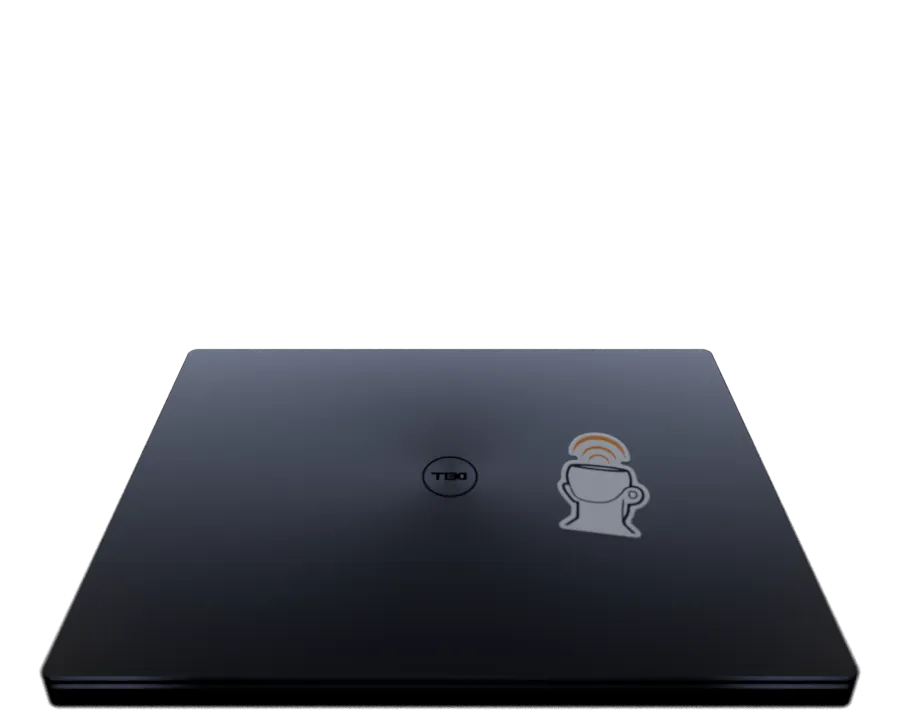
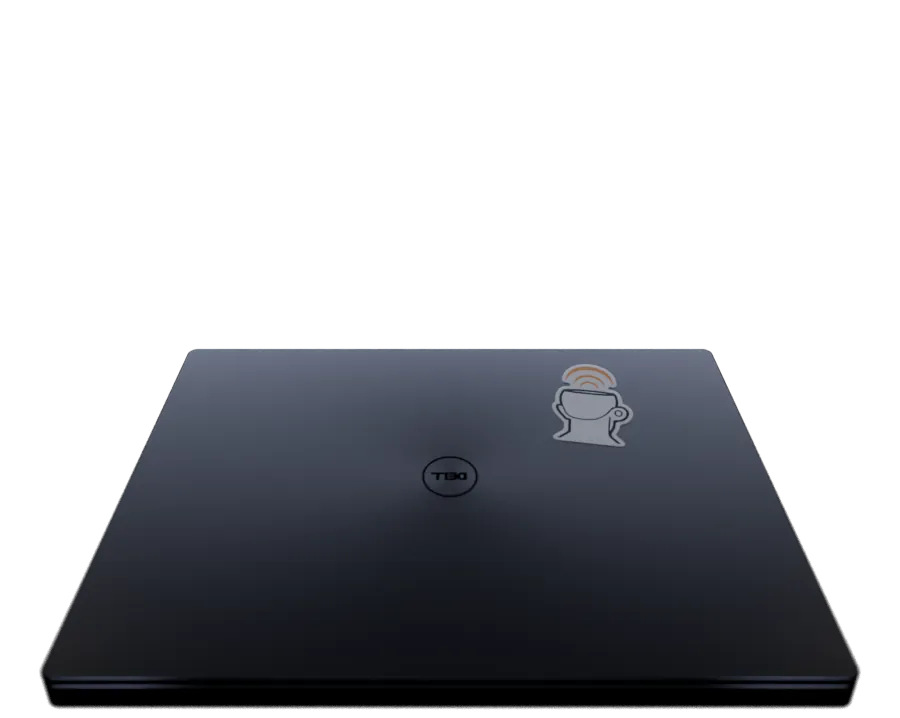
Cinema seat: closing the laptop moves the view onto the film; captions show
Closed, the recording fills the window under the way back, with the lid's far edge below: the sticker
(re-rendered near the hinge) and the Play / Open buttons on it; the recording's own bar wakes on the mouse
and the poster names the talk. Opening pulls back to the usual view. The tube moves by transform only, so
it keeps step with the room.

Captions were on but drawn in the strip of YouTube's frame the tube crops away: with CC on the frame is
uncropped, a size up on the small picture, and they come on when the player is ready if asked for before.

Changed region(s): [[0.5911, 0.4903, 0.7467, 0.766]]

diff --git a/site/cinema/cinema.js b/site/cinema/cinema.js
@@ -168,7 +168,7 @@ function mount(panel, key, overlayName) {
   const [mw, mh] = shots[key].size[overlayName];
   // laptops: a fixed canvas, like a real display; phones: laid out 1:1 for the width the totem takes on this screen
   let w = canvasFor(key);
-  if (seat && key === seat.key) w = Math.round(seat.layout.screen.w);   // the seat on laptops: laid out 1:1 for the screen's size
+  if (seat && key === seat.key) w = seat.layout.panelW;   // laid out for the screen as seen with the lid open: closed, it only grows   // the seat on laptops: laid out 1:1 for the screen's size
   else if (key.includes("phone")) {
     const { iw, ih, s } = fit(key);
     const [tl, tr] = ordered(shots[key].overlay[overlayName]);
@@ -498,7 +498,8 @@ function talkScreen(t, tall, onFloor, doorRoom = null) {
 // it's worth your time beside it. Everything else (the summary, what to try, the chapters to jump through the talk) is on
 // a laptop on your lap: a separate picture laid over the room, like a first-person game draws the hands, so it can be
 // placed for each window size without ever covering the recording. Open, it rises into the bottom of the view, the room
-// tilted up a little to make room; closed, its lid (and the sticker on it) lies low and the screen is all yours; zoomed,
+// tilted up a little to make room; closed, you look up: the recording fills the window, the lid's far edge (sticker
+// peeking) and its Play / Open buttons at the foot, and opening it pulls the view back down; zoomed,
 // it's lifted until its screen fills the window, the room dims behind, and the recording moves onto it.
 // Keys: K play/pause, [ and ] previous/next chapter, F full screen, L open/close the laptop, Esc back out.
 // The laptop's pictures and where things are in them, in art px (scripts/blender/build_laptop.py writes laptop.json, which
@@ -509,7 +510,7 @@ const LAP = shots.laptop ? (() => {
   const L = shots.laptop, [tl, tr, bl] = L.screen, hingeCut = (f) => Math.min(L.h, L.open_cut + (f - 0.32) * (bl[1] - tl[1]));
   return { w: L.w, h: L.h, screen: [tl[0], tl[1], tr[0], bl[1]],
     open: { src: "media/laptop-open.webp", top: L.open_top, cut: L.open_cut, cutShort: hingeCut(0.1) },
-    closed: { src: "media/laptop-closed.webp", top: L.closed_top, bottom: L.closed_cut || L.closed_bottom, box: L.closed_box },
+    closed: { src: "media/laptop-closed.webp", top: L.closed_top, bottom: L.closed_cut || L.closed_bottom, box: L.closed_box, sticker: L.sticker_box },
     frames: Array.from({ length: L.frames || 0 }, (_, i) => `media/laptop-anim-${String(i).padStart(2, "0")}.webp`) };
 })() : {   // a drawn stand-in until the render is in
   w: 1600, h: 1060, screen: [176, 26, 1424, 806],
@@ -564,7 +565,24 @@ function seatLayout(st) {
   else lapBox = { x: W / 2 - (LAP.screen[0] + ow / 2) * k, y: H - c.bottom * k, w: LAP.w * k, h: LAP.h * k, k };
   // the recording keeps clear of the open lid, so its controls are never under it
   const cover = Math.max(0, Math.ceil(openTop + sh - lidTop));
-  return { frame, screen: { x: left, y: top, w: sw, h: sh }, lap: lapBox, cover, W, H };
+  const out = { frame, screen: { x: left, y: top, w: sw, h: sh }, panelW: Math.round(sw), lap: lapBox, cover, W, H };
+  if (!st.open && !st.zoom && st.t.videoId && EMBED) {
+    // Closed: you look up from your lap at the film. The view moves in until the recording fills the window, under the
+    // way back to the programme; at the foot, the far edge of the lid (sticker and all) and its Play / Open buttons.
+    // how much of the closed lid stays in view: its far edge down to just past the sticker (the buttons sit on it, beside)
+    const stk = c.sticker || [0, 0, 0, c.top + 230];
+    const lidShow = Math.round(Math.min(H * 0.2, Math.max(56, (stk[3] - c.top) * k + 12)));
+    const vTop = 56, vBottom = H - lidShow - 12;               // clear of "← Programme" above and the lid below
+    const vh = Math.min(vBottom - vTop, (W - 24) * 9 / 16), vw = vh * 16 / 9;
+    const video = { x: (W - vw) / 2, y: vTop + (vBottom - vTop - vh) / 2, w: vw, h: vh };
+    const zs = vh / Math.min(sy1 - sy0, (sx1 - sx0) * 9 / 16);   // the screen's scale: the picture at its full height
+    const zw = (sx1 - sx0) * zs, zh = (sy1 - sy0) * zs, zl = W / 2 - zw / 2, zt = video.y - (zh - vh) / 2;
+    Object.assign(out, { frame: { iw, ih, s: zs, ox: zl - sx0 * zs, oy: zt - sy0 * zs }, screen: { x: zl, y: zt, w: zw, h: zh }, video, cover: 0,
+      lap: { ...lapBox, y: H - lidShow - c.top * k },
+      // the Play / Open buttons on the lid, to the left of the sticker, halfway down the strip in view (css px in the laptop's box)
+      lidBar: { right: (c.sticker ? stk[0] : LAP.w * 0.6) * k - 18, mid: c.top * k + lidShow / 2 } });
+  }
+  return out;
 }
 
 // the room (still, cut-out) moved from where object-fit puts it to the seat's framing (from: start at the walk's framing)
@@ -660,7 +678,8 @@ function posterOn(t) {
   img.onerror = () => { img.onerror = null; img.src = `https://i.ytimg.com/vi/${t.videoId}/hqdefault.jpg`; };
   tube.textContent = "";
   tube.append(el("button", { class: "poster", type: "button", "aria-label": `Play the recording of ${t.title}`, "aria-keyshortcuts": "K", onclick: () => jumpTo(0) },
-    img, el("span", { class: "play" }, el("i", { "aria-hidden": "true" }), "Play the talk", t.duration ? el("small", { text: `${t.duration} min` }) : null)));
+    img, el("span", { class: "poster-title", "aria-hidden": "true" }, el("b", { text: t.title }), el("span", { text: speakers(t, true) })),
+    el("span", { class: "play" }, el("i", { "aria-hidden": "true" }), "Play the talk", t.duration ? el("small", { text: `${t.duration} min` }) : null)));
   tube.hidden = false;
 }
 // the recording full screen (the browser's own): the picture alone, with a slim bar of our controls that shows when
@@ -689,21 +708,29 @@ function tubeControls() {
     el("button", { class: "icon cc", type: "button", "aria-keyshortcuts": "C", "aria-pressed": "false", "aria-label": "Captions", onclick: () => toggleCaptions() }, "CC"),
     el("button", { class: "icon mute", type: "button", "aria-keyshortcuts": "M", "aria-label": "Mute", onclick: () => toggleMute() }),
     el("button", { class: "icon fs", type: "button", "aria-keyshortcuts": "F", "aria-label": "Leave full screen", onclick: () => videoFullscreen() }));
-  bar.querySelector(".fs").innerHTML = FS_EXIT_ICON;
-  bar.querySelector(".fs").title = "Leave full screen  F or Esc";
+  fsButton(bar);
   const corner = el("button", { class: "tube-fs", type: "button", "aria-keyshortcuts": "F", "aria-label": "Video full screen", title: "Video full screen  F", onclick: () => videoFullscreen() });
   corner.innerHTML = FS_ICON;
   return [corner, bar];
 }
+// the bar's last button: into full screen from the big view, out of it in full screen
+function fsButton(bar = tube.querySelector(".tube-bar")) {
+  const b = bar && bar.querySelector(".fs"), on = document.fullscreenElement === tube;
+  if (!b) return;
+  b.innerHTML = on ? FS_EXIT_ICON : FS_ICON;
+  b.title = on ? "Leave full screen  F or Esc" : "Video full screen  F";
+  b.setAttribute("aria-label", on ? "Leave full screen" : "Video full screen");
+}
 let barTimer = 0;
 tube.addEventListener("mousemove", () => {
-  if (document.fullscreenElement !== tube) return;
+  if (document.fullscreenElement !== tube && !tube.classList.contains("is-big")) return;
   tube.classList.add("is-awake");
   clearTimeout(barTimer);
   barTimer = setTimeout(() => tube.classList.remove("is-awake"), 2500);
 });
 document.addEventListener("fullscreenchange", () => {
   tube.classList.toggle("is-full", document.fullscreenElement === tube);
+  fsButton();
   tube.classList.add("is-awake");
   clearTimeout(barTimer);
   barTimer = setTimeout(() => tube.classList.remove("is-awake"), 2500);
@@ -738,6 +765,7 @@ function jumpTo(sec) {
           e.target.playVideo();
           seat.ready = true;
           clearTimeout(seat.readyTimer);
+          if (seat.cc) applyCaptions();
           tick();
         },
         onStateChange: (e) => { theatreFor(e.data); tick(); },
@@ -761,12 +789,33 @@ function toggleMute() {
   if (p.isMuted()) p.unMute(); else p.mute();
   setTimeout(tick, 100);
 }
+// Captions: YouTube draws them at the foot of its frame, which the tube crops away (see .tube's --crop in the CSS), so
+// with captions on the frame is uncropped and they sit on the picture's foot. The English track, else whatever the
+// recording has (auto-generated tracks too). Asked for before the player exists, they come on when it's ready.
 function toggleCaptions() {
-  const p = seat && seat.player;
-  if (!p || !p.loadModule) return;
+  if (!seat) return;
   seat.cc = !seat.cc;
-  if (seat.cc) { p.loadModule("captions"); p.setOption("captions", "track", { languageCode: "en" }); } else p.unloadModule("captions");
+  applyCaptions();
   tick();
+}
+function applyCaptions() {
+  const p = seat && seat.player;
+  tube.classList.toggle("is-cc", !!(seat && seat.cc));
+  if (!p || !p.loadModule || !seat.ready) return;
+  if (!seat.cc) { p.setOption("captions", "track", {}); p.unloadModule("captions"); return; }
+  p.loadModule("captions");
+  p.setOption("captions", "track", { languageCode: "en" });
+  captionSize();
+  setTimeout(() => {             // no English track: the recording's first
+    if (!seat || !seat.cc || seat.player !== p) return;
+    const now = p.getOption("captions", "track"), list = p.getOption("captions", "tracklist") || [];
+    if ((!now || !now.languageCode) && list.length) p.setOption("captions", "track", list[0]);
+  }, 1500);
+}
+// YouTube sizes captions by its frame; on the cinema screen (seen from the seat) that's small: a step up there
+function captionSize() {
+  const p = seat && seat.player;
+  if (seat && seat.cc && p && p.setOption && seat.ready) p.setOption("captions", "fontSize", tube.clientWidth < 1100 ? 2 : 1);
 }
 // Theatre: while the talk plays, the title column drifts off and the picture grows to the screen's full height, centred;
 // pause (for a moment) or let it finish and the column comes back
@@ -780,23 +829,47 @@ function theatreFor(state) {
 function setTheatre(on) {
   if (!seat || seat.theatre === on) return;
   seat.theatre = on;
-  if (seat.cine) seat.cine.classList.toggle("is-theatre", on);
+  if (seat.cine) seat.cine.classList.toggle("is-theatre", inTheatre());
   if (!seat.zoom) placeTube(reduceMotion ? 0 : 750);
 }
+// the lid closed with the view on the film: the picture stays big, playing or not
+const inTheatre = () => !!seat && (seat.theatre || !!seat.layout.video);
+// where things on the cinema screen end up once the view has moved (read from the layout: mid-move, the DOM is not there yet)
 function theatreRect() {
-  const fr = seat.cine.getBoundingClientRect(), padX = fr.width * 0.015, padT = 8, padB = seat.layout.cover + 8;
+  const st = stage.getBoundingClientRect(), L = seat.layout, v = L.video;
+  if (v) return { left: st.left + v.x, top: st.top + v.y, width: v.w, height: v.h };
+  const fr = { left: st.left + L.screen.x, top: st.top + L.screen.y, width: L.screen.w, height: L.screen.h };
+  const padX = fr.width * 0.015, padT = 8, padB = L.cover + 8;
   const aw = fr.width - 2 * padX, ah = fr.height - padT - padB;
   const h = Math.min(ah, aw * 9 / 16), w = h * 16 / 9;
   return { left: fr.left + (fr.width - w) / 2, top: fr.top + padT + (ah - h) / 2, width: w, height: h };
+}
+function onScreen(e) {
+  const pr = seat.cine.getBoundingClientRect(), r = e.getBoundingClientRect(), st = stage.getBoundingClientRect(), L = seat.layout.screen;
+  const kx = L.w / pr.width, ky = L.h / pr.height;
+  return { left: st.left + L.x + (r.left - pr.left) * kx, top: st.top + L.y + (r.top - pr.top) * ky, width: r.width * kx, height: r.height * ky };
 }
 // the tube sits over whichever slot is showing: the cinema screen's, or the laptop's when zoomed
 function placeTube(ms = 0) {
   if (!seat || tube.hidden) return;
   const host = seat.zoom ? seat.notes : seat.cine, slot = host && host.querySelector(".slot");
   if (!slot) { tube.classList.add("is-away"); return; }
-  const r = !seat.zoom && seat.theatre && seat.cine ? theatreRect() : slot.getBoundingClientRect(), st = stage.getBoundingClientRect();
-  tube.style.transition = ms ? `transform ${ms}ms ${EASE}, width ${ms}ms ${EASE}, height ${ms}ms ${EASE}, opacity .25s ease` : "opacity .25s ease";
-  Object.assign(tube.style, { width: `${Math.round(r.width)}px`, height: `${Math.round(r.height)}px`, transform: `translate(${Math.round(r.left - st.left)}px, ${Math.round(r.top - st.top)}px)` });
+  const r = seat.zoom ? slot.getBoundingClientRect() : inTheatre() ? theatreRect() : onScreen(slot), st = stage.getBoundingClientRect();
+  const was = tube.getBoundingClientRect(), w = Math.round(r.width), h = Math.round(r.height);
+  const to = `translate(${Math.round(r.left - st.left)}px, ${Math.round(r.top - st.top)}px)`;
+  // moving: the new size at once, scaled from the old box back to it (a transform alone runs in step with the room's;
+  // animating width and height relaid the player every frame and fell behind)
+  const flip = ms && was.width > 1 && !tube.classList.contains("is-away") && !tube.classList.contains("is-full");
+  tube.style.transition = "opacity .25s ease";
+  tube.style.transformOrigin = "0 0";
+  Object.assign(tube.style, { width: `${w}px`, height: `${h}px`,
+    transform: flip ? `translate(${was.left - st.left}px, ${was.top - st.top}px) scale(${was.width / w}, ${was.height / h})` : to });
+  if (flip) {
+    tube.getBoundingClientRect();
+    tube.style.transition = `transform ${ms}ms ${EASE}, opacity .25s ease`;
+    tube.style.transform = to;
+  }
+  tube.classList.toggle("is-big", !seat.zoom && !!seat.layout.video);
   tube.classList.toggle("is-on-laptop", seat.zoom);
   tube.classList.remove("is-away");
 }
@@ -1146,6 +1219,10 @@ function tick() {
 function syncControls() {
   const { open, zoom } = seat;
   lidBar.hidden = lidHit.hidden = open;
+  const lb = seat.layout && seat.layout.lidBar;
+  lidBar.classList.toggle("is-on-lid", !!lb);
+  if (lb) Object.assign(lidBar.style, { left: `${lb.right}px`, top: `${lb.mid}px` });
+  else placeLidBar();
   lidPlay.hidden = !seat.t.videoId || !EMBED;
   seatbar.hidden = zoom;                                    // full screen: the laptop's own header has the way out
   const n = seat.notesPanel;
@@ -1159,7 +1236,7 @@ function syncControls() {
 function mountCine() {
   mount(seat.cinePanel || (seat.cinePanel = cineScreen(seat.t)), seat.key, "screen");
   seat.cine = face.el;
-  seat.cine.classList.toggle("is-theatre", !!seat.theatre);
+  seat.cine.classList.toggle("is-theatre", inTheatre());
   seat.cine.style.setProperty("--cover", `${seat.layout.cover}px`);
   fitCine(seat.cine);
 }
@@ -1205,12 +1282,16 @@ async function setLaptop(change, ms = MOVE) {
   if (next.open === seat.open && next.zoom === seat.zoom) return;
   moving = true;
   const opening = next.open !== seat.open;
+  if (opening && ms) ms = Math.round(ms * 1.3);           // the view travels further: up to the film and back
   if (seat.notes) seat.notes.classList.add("is-off");     // the screen goes dark first
+  if (!next.open && seat.cine && seat.t.videoId && EMBED) seat.cine.classList.add("is-theatre");   // and the column leaves the film
+  lap.classList.add("is-moving");
   if (next.zoom !== seat.zoom) tube.classList.add("is-away");
   await new Promise((r) => setTimeout(r, ms ? 140 : 0));
   Object.assign(seat, { open: next.open, zoom: next.zoom });
   seat.layout = seatLayout(seat);
   stage.classList.toggle("is-reading", seat.zoom);
+  if (seat.cine) seat.cine.classList.toggle("is-theatre", inTheatre());
   const np = seat.notesPanel, pressed = np && np.querySelector('.tabs [aria-pressed="true"]');
   if (seat.zoom && pressed && pressed.dataset.tab === "overview") { seat.tabBeforeZoom = "overview"; np.fill("summary"); }
   else if (!seat.zoom && seat.tabBeforeZoom) { if (pressed && pressed.dataset.tab === "summary") np.fill(seat.tabBeforeZoom); seat.tabBeforeZoom = null; }
@@ -1225,6 +1306,8 @@ async function setLaptop(change, ms = MOVE) {
   if (face) face.el.style.transition = "";
   mountNotes();
   placeTube();
+  captionSize();
+  lap.classList.remove("is-moving");
   moving = false;
   // focus follows: into the laptop when it opens or zooms, onto the lid when it closes
   if (!seat.open) lapLid.focus({ preventScroll: true });
@@ -1237,9 +1320,13 @@ lidHit.addEventListener("click", () => setLaptop({ open: true }));
 {
   const [x0, y0, x1, yb] = LAP.closed.box, y1 = Math.min(yb, LAP.closed.bottom), pc = (v, of) => `${v / of * 100}%`;
   Object.assign(lidHit.style, { left: pc(x0, LAP.closed.w || LAP.w), top: pc(y0, LAP.closed.h || LAP.h), width: pc(x1 - x0, LAP.closed.w || LAP.w), height: pc(y1 - y0, LAP.closed.h || LAP.h) });
-  // just above the lid's far edge, centred: never on the logo or the sticker
+}
+// just above the lid's far edge, centred: never on the logo or the sticker
+function placeLidBar() {
+  const [x0, y0, x1] = LAP.closed.box, pc = (v, of) => `${v / of * 100}%`;
   Object.assign(lidBar.style, { left: pc((x0 + x1) / 2, LAP.closed.w || LAP.w), top: pc(y0 - (LAP.closed.h || LAP.h) * 0.035, LAP.closed.h || LAP.h) });
 }
+placeLidBar();
 lidPlay.addEventListener("click", () => playPause());
 $("toProg").addEventListener("click", () => goHall());
 addEventListener("keydown", (e) => {
@@ -1282,6 +1369,7 @@ async function sitDown(t, n, key, withWalk) {
   room = n; current = t;
   seat = { t, n, key, open: true, zoom: false, layout: null, cine: null, notes: null, notesPanel: null, cinePanel: null, player: null, timer: 0,
     chapters: chaptersOf(t), lastChapter: null, starting: false, startAt: 0 };
+  tube.classList.remove("is-cc");
   seat.layout = seatLayout(seat);
   preloadLid();
   lapArt.src = LAP.open.src;

diff --git a/site/cinema/cinema.css b/site/cinema/cinema.css
@@ -559,6 +559,7 @@ button, input, a { font: inherit; color: inherit; }
    so the 16:9 picture letterboxes inside it and those overlays land in the bars, clipped away */
 .tube { overflow: hidden; --crop: max(64px, 14%); }
 .tube .yt, .tube iframe { top: calc(-1 * var(--crop)); height: calc(100% + 2 * var(--crop)); }
+.tube.is-cc { --crop: 0px; }   /* captions on: they sit at the frame's foot, so nothing is cropped */
 .notes.is-zoomed .notes-watch .slot { width: 100%; max-height: none; aspect-ratio: 16 / 9; align-self: stretch; }
 /* round 4 */
 .notes.is-zoomed .now { height: auto; }
@@ -798,3 +799,16 @@ html, body { overscroll-behavior: none; }
 .notes button.pull-at:hover { background: rgba(246, 146, 30, .14); text-decoration: none; }
 .notes span.pull-at { border: 0; padding: 0; }
 .notes.is-tiny .now-time { display: none; }        /* the smallest laptop: the scrubber shows where you are; every button stays */
+
+/* the lid closed, the view on the film: the recording's own bar (as in full screen) wakes on the mouse; the poster names
+   the talk; the lid's buttons sit on the lid, beside the sticker */
+.tube.is-big .tube-bar { display: flex; opacity: 0; transition: opacity .3s ease; }
+.tube.is-big.is-awake .tube-bar, .tube.is-big .tube-bar:focus-within, .tube.is-big:has(.tube-paused:not([hidden])) .tube-bar { opacity: 1; }
+.tube.is-big .tube-fs { display: none; }
+.tube .poster-title { display: none; }
+.tube.is-big .poster-title { position: absolute; left: 0; right: 0; top: 0; display: flex; flex-direction: column; gap: 6px; padding: 26px 32px 60px; text-align: left;
+  background: linear-gradient(rgba(0, 0, 0, .9), rgba(0, 0, 0, .6) 60%, transparent); color: #e8ebf4; font-size: 16px; text-shadow: 0 1px 3px #000; }
+.tube.is-big .poster-title b { font-size: clamp(22px, 2.4vw, 34px); line-height: 1.15; color: #fff; }
+.lid-bar.is-on-lid { translate: -100% -50%; }
+.lap.is-moving .lap-hint, .lap.is-moving .lid-bar { visibility: hidden; }
+.tube.is-big .tube-bar .now-text { flex: 0 1 auto; max-width: 26%; }   /* the scrubber takes the room, not an empty gap */

diff --git a/scripts/blender/build_laptop.py b/scripts/blender/build_laptop.py
@@ -375,7 +375,7 @@ def sticker():
     me.materials.append(m)
     ob = bpy.data.objects.new("sticker", me)
     ob.parent = pivot
-    ob.location = (0.082, front_y + 0.112, top_z + 0.00015)         # in the lid's back half: in view above the bottom edge
+    ob.location = (0.086, front_y + 0.176, top_z + 0.00015)         # near the hinge: in view when you look up at the film too
     ob.rotation_euler = (0, 0, math.radians(-9))                   # up = +y when closed: away from you, so you read it
     scene.collection.objects.link(ob)
 
@@ -511,6 +511,7 @@ info["closed_bottom"] = round(max(px(Vector((x, -D, 0.0)))[1] for x in (-W / 2, 
 _st = bpy.data.objects["sticker"]
 _sw, _sh = _st.dimensions.x, _st.dimensions.y
 _cs = [px(_st.matrix_world @ Vector((x * _sw / 2 / _st.scale.x, y * _sh / 2 / _st.scale.y, 0))) for x in (-1, 1) for y in (-1, 1)]
+info["sticker_box"] = [round(min(p[0] for p in _cs), 1), round(min(p[1] for p in _cs), 1), round(max(p[0] for p in _cs), 1), round(max(p[1] for p in _cs), 1)]
 info["closed_cut"] = round(min(info["closed_bottom"], max(p[1] for p in _cs) + 0.06 * (info["closed_bottom"] - info["closed_top"])), 1)
 print("laptop frame", WPX, "x", HPX, json.dumps(info))
 

diff --git a/tools/ux/RUBRIC-seat.md b/tools/ux/RUBRIC-seat.md
@@ -34,6 +34,8 @@ review is about **the seat, on laptops and desktops**.
  R9 While the talk plays, the text beside the video is gone (animated away) and the video takes as much of the movie
     screen as it can; reading on the laptop, its tabs and headers get out of the way (away on scroll down, back on
     scroll up); the UI disappears when not in use; the summary is formatted to be legible and pleasant.
+ R10 Closing the laptop moves the view in on the movie screen: the recording fills the window, with just a bit of the
+    laptop and its "Open the laptop" button below; opening it pulls back to the usual view. Captions (CC) show.
 
 ## Standing notes for reviewers
 - The laptop is a **placeholder drawing** for now. It becomes a photoreal render of a Dell Precision 5570 (silver lid,
@@ -51,7 +53,7 @@ review is about **the seat, on laptops and desktops**.
   2b-summary-reading       the Summary tab, scrolled down a little: the laptop's header, tabs and bar fold away
   3-jumped                 after clicking a chapter: the recording plays (theatre: the column beside it drifts off,
                            the picture takes the screen's full height)
-  4-closed                 the laptop closed
+  4-closed                 the laptop closed: the view moved in on the film (tools/ux/closed.mjs shoots the move)
   5-fullscreen             the laptop zoomed to fill the window
   6-fullscreen-jumped      a chapter clicked while full screen
   7-back-from-fullscreen   Esc pressed
@@ -60,6 +62,7 @@ review is about **the seat, on laptops and desktops**.
   11-video-fullscreen      the recording full screen (the browser's), with the page's own control bar
   10-player-blocked        "Play" pressed while YouTube is blocked (the console errors in log.txt are this, on purpose)
   log.txt                  console errors
+  (tools/ux/closed.mjs: the lid closing and opening, mid-move too; tools/ux/cc-probe.mjs: captions land in view)
 
 ## Score each heuristic 0-4 (be strict)
  H1 Visibility of system status (what's playing, which chapter, open/closed/zoomed state, where focus is)
@@ -95,6 +98,8 @@ review is about **the seat, on laptops and desktops**.
 | r1 | 9 (36/40) | 9 (36/40) | 9 (36/40) | real renders in (laptop + wide room stills); full-screen video (R8) |
 | r2 | 9 (36/40) | 9 (36/40) | 9 (37/40) | Z zooms the laptop, F full-screens the video |
 | r3 | 9 (37/40) | 9 (36/40) | 9 (37/40) | R9: theatre while playing, chrome folds while reading, a readable summary |
+| r4 | 8 (35/40) | 8 (34/40) | 8 (35/40) | R10 first cut: closed lid moves the view onto the film; captions uncropped (sticker out of view: R3 fail) |
+| r5 | 9 (37/40) | 9 (36/40) | 9 (37/40) | sticker re-rendered near the hinge, buttons on the lid, the recording's bar in the big view, poster names the talk |
 
 Art (stage 2), overall per viewport 1440 / 1280 / 1920:
 | round | art | main change |
